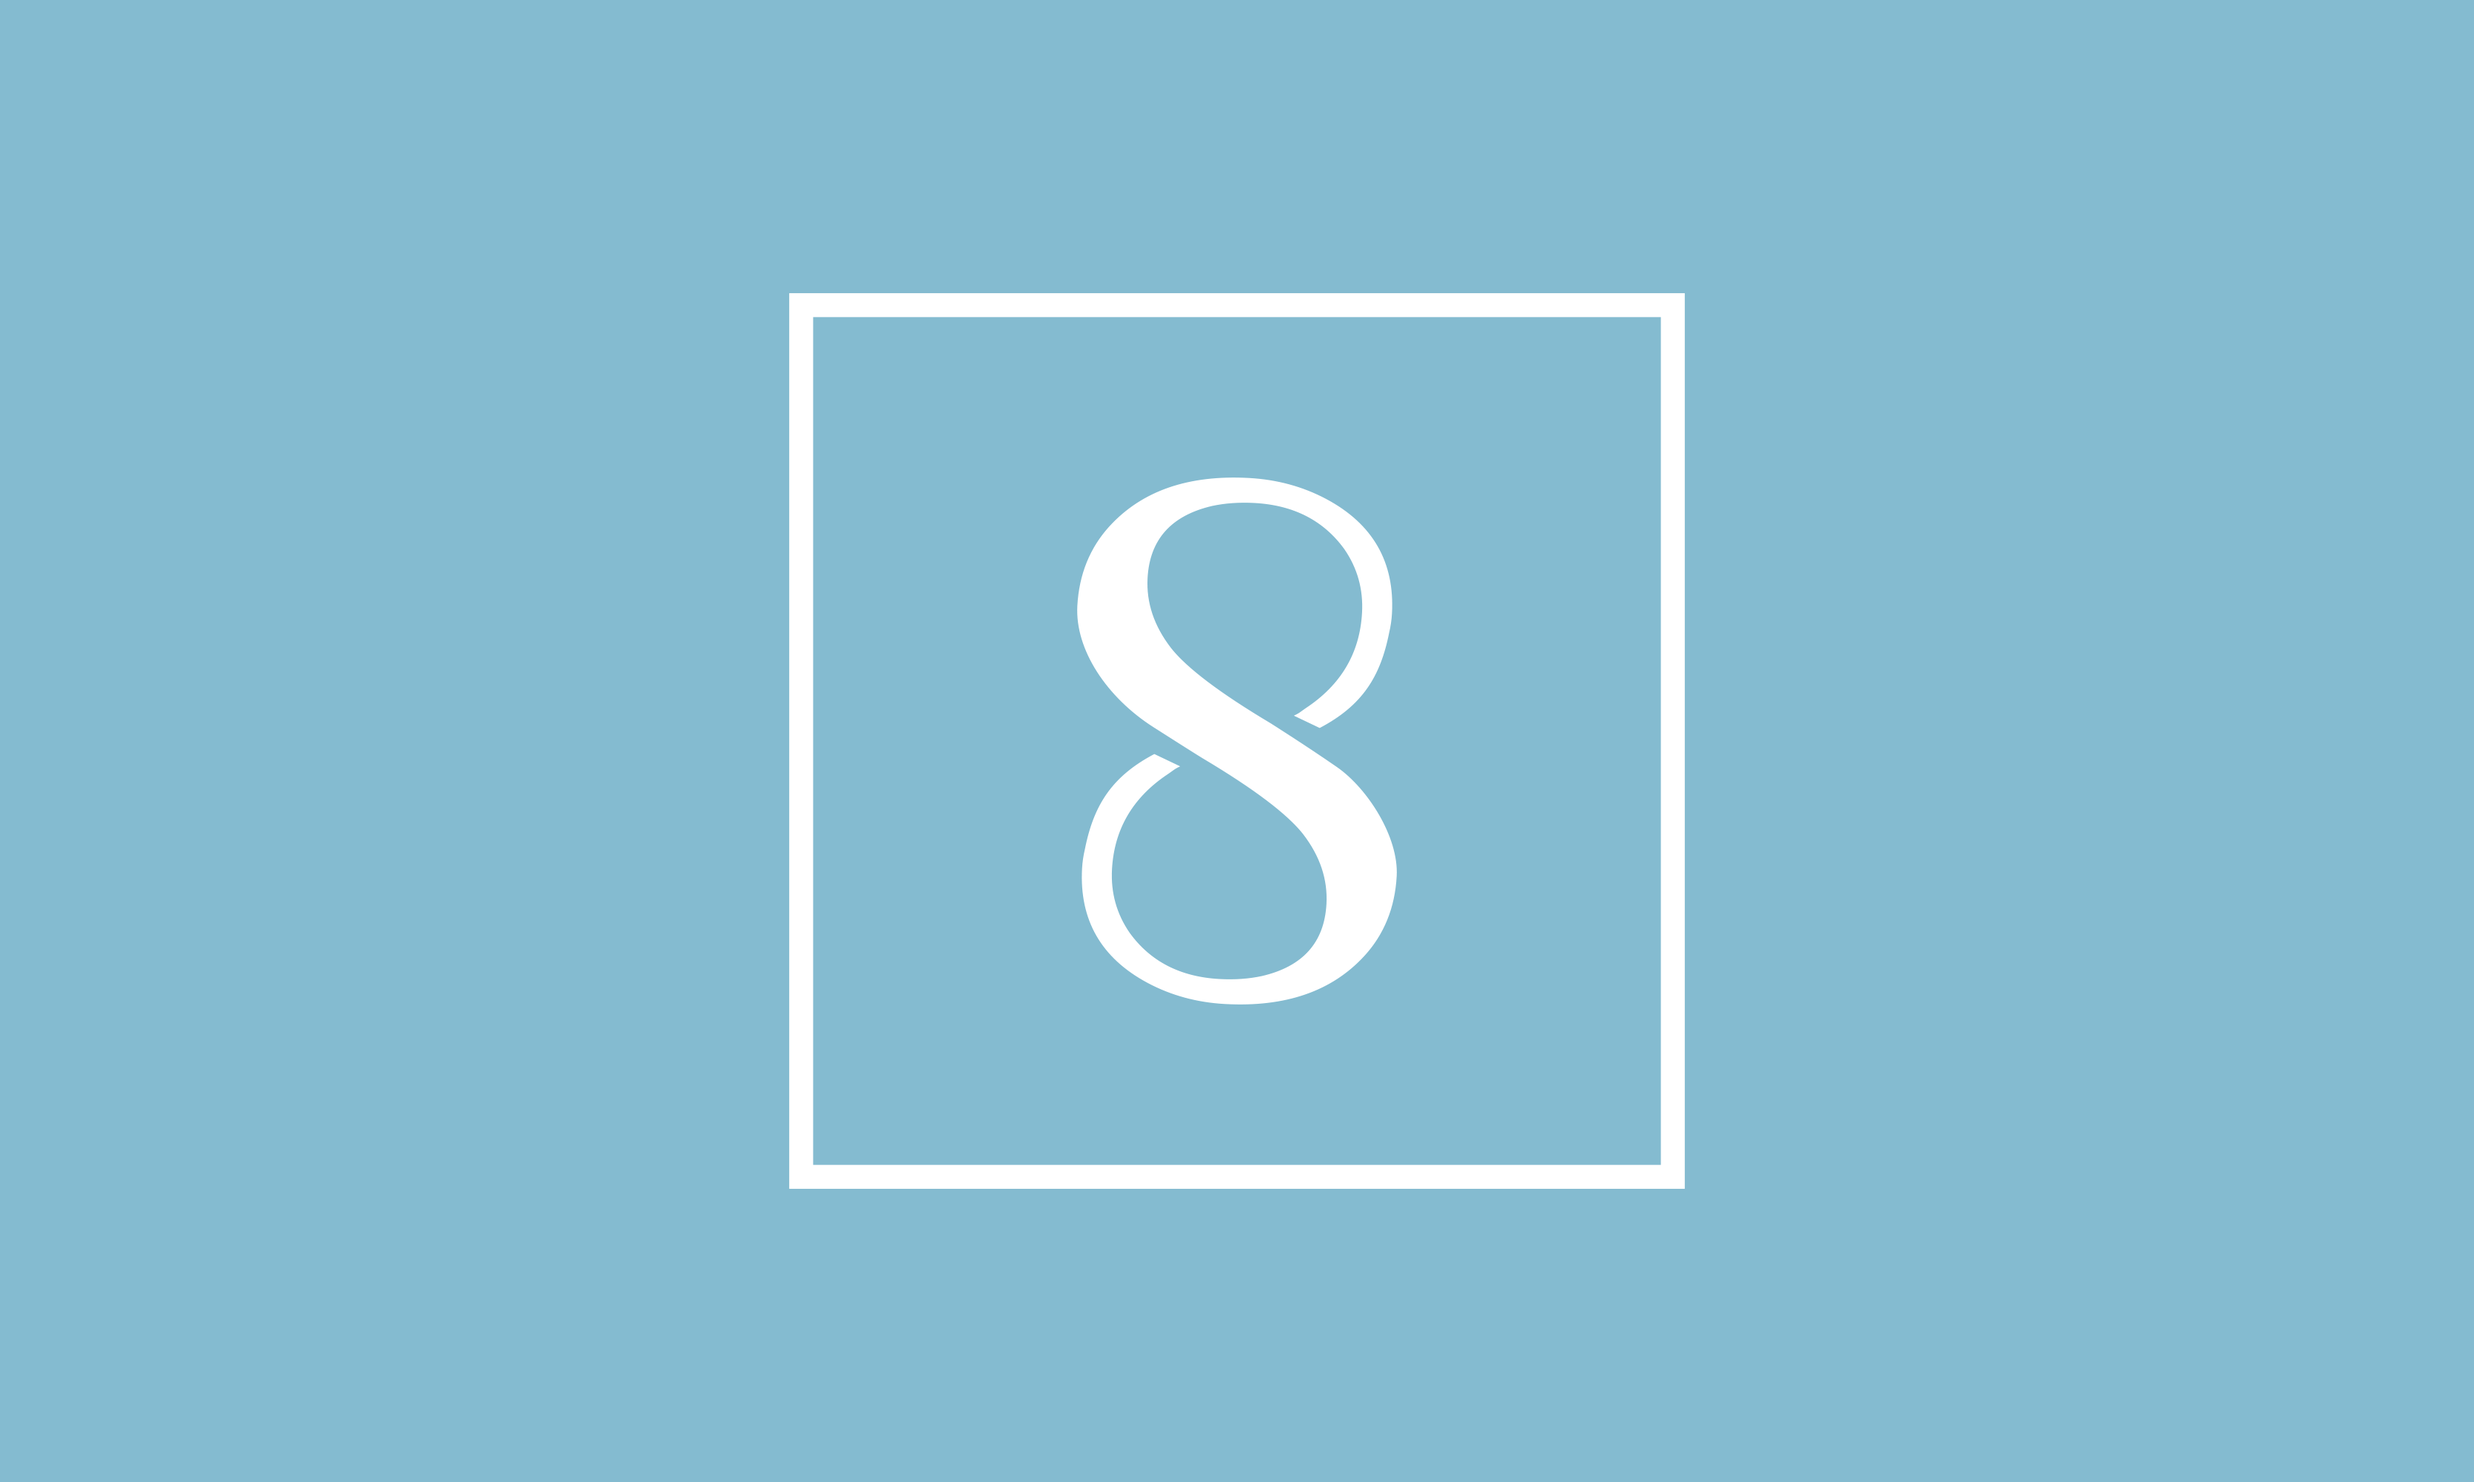
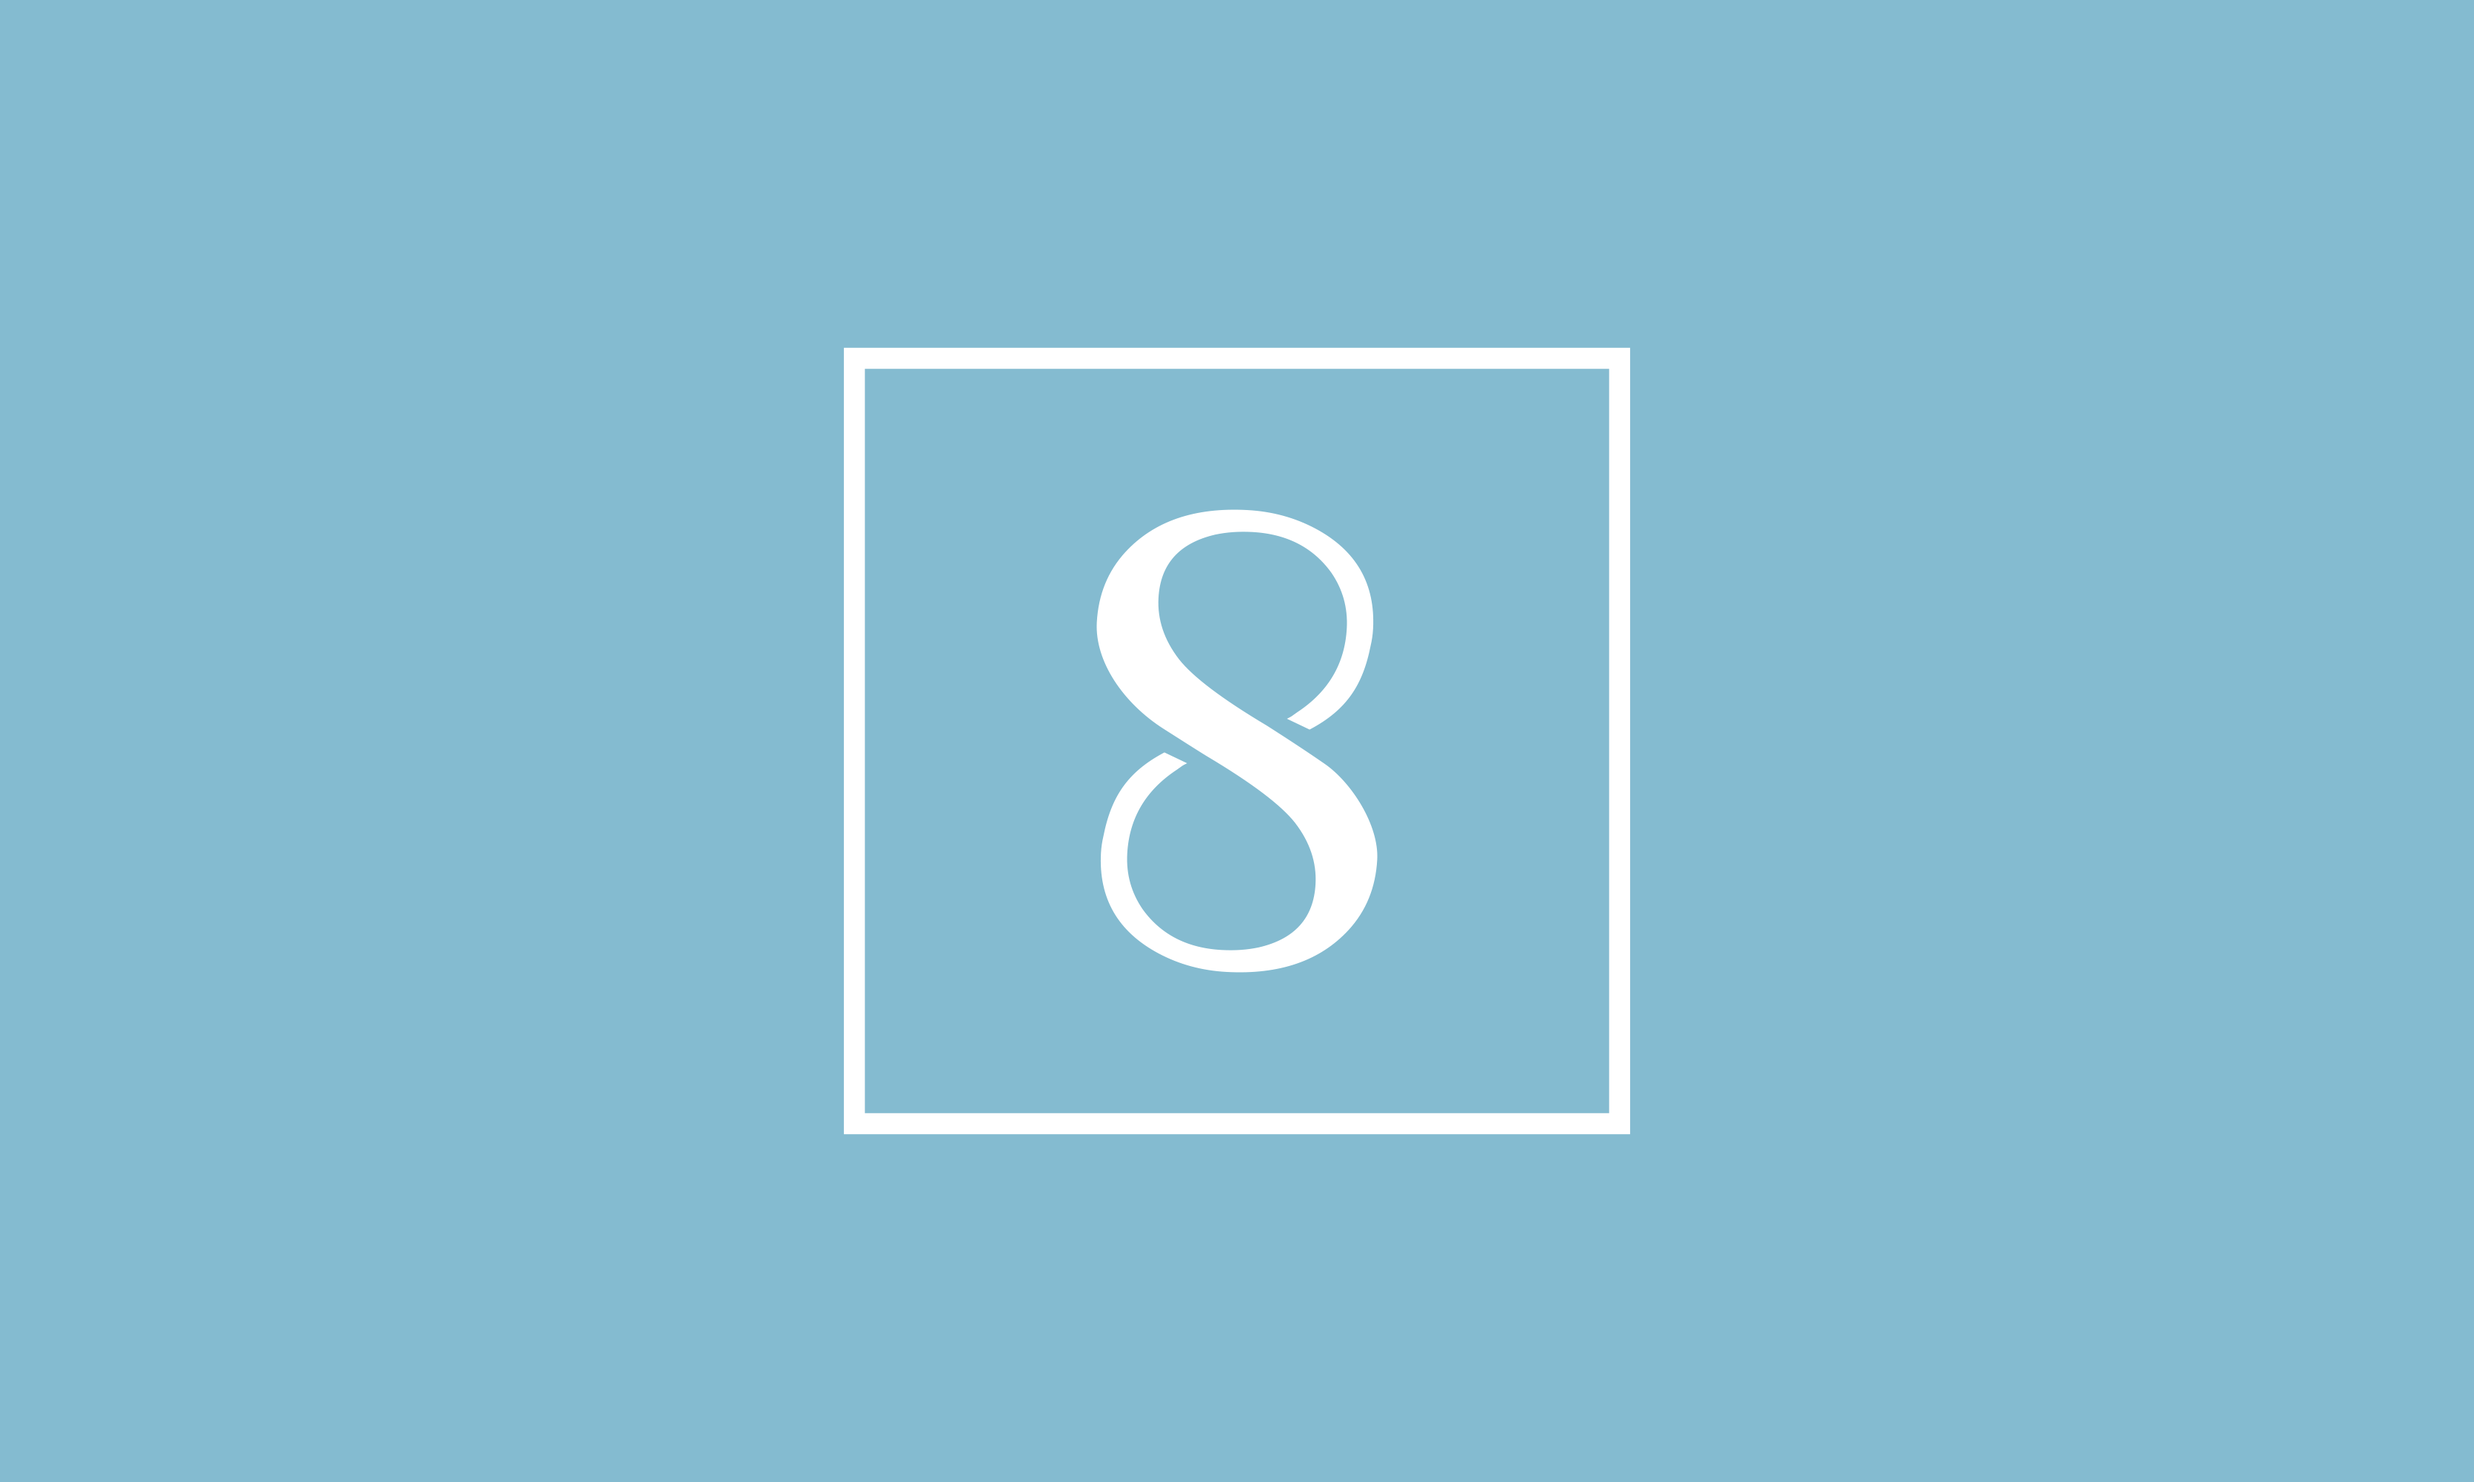
updated covers

diff --git a/src/pages/index.js b/src/pages/index.js
@@ -6,21 +6,12 @@ import Layout from '../components/Layout'
 import ProjectLink from '../components/ProjectLink'
 import styles from './styles.module.scss'
 
-import airRavenLogo from '../assets/projects/airraven/logo.jpg'
-import brewBrosLogo from '../assets/projects/brewbros/logo.jpg'
-import eightLogo from '../assets/projects/eight/eightSign.jpg'
-import tlabWebsite from '../assets/projects/tlab/websiteOne.png'
-import racketSpread from '../assets/projects/racket/spreadOne.jpg'
-import campaignPostcard from '../assets/projects/campaign/postcardSideOne.jpg'
-
-import airRavenCover from '../assets/projects/airraven/cover.jpg'
-import eightCover from '../assets/projects/eight/cover.jpg'
-import brewBrosCover from '../assets/projects/brewbros/cover.jpg'
-import campaignCover from '../assets/projects/campaign/cover.jpg'
-import tlabCover from '../assets/projects/tlab/cover.jpg'
-
-
-
+import airRavenCover from '../assets/projects/airraven/cover.png'
+import eightCover from '../assets/projects/eight/cover.png'
+import brewBrosCover from '../assets/projects/brewbros/cover.png'
+import campaignCover from '../assets/projects/campaign/cover.png'
+import tlabCover from '../assets/projects/tlab/cover.png'
+import racketCover from '../assets/projects/racket/cover.png'
 
 const HomePage = ({data}) => {
   return (
@@ -48,7 +39,7 @@ const HomePage = ({data}) => {
           title='Racket'
           link='/racket'
           description='Cover and article for first issue of a new music magazine.'
-          image={racketSpread}
+          image={racketCover}
         />
         <ProjectLink
           title='Brew Bros'

diff --git a/src/pages/racket.js b/src/pages/racket.js
@@ -9,9 +9,10 @@ import HalfWidthBanner from '../components/HalfWidthBanner'
 
 import processOne from '../assets/projects/racket/processOne.jpg'
 import processTwo from '../assets/projects/racket/processTwo.jpg'
-import cover from '../assets/projects/racket/cover.jpg'
+import coverSpread from '../assets/projects/racket/coverSpread.jpg'
 import spreadOne from '../assets/projects/racket/spreadOne.jpg'
-import spreadTwo from '../assets/projects/racket/spreadTwo.jpg'
+import spreadTwo from '../assets/projects/racket/spreadTwo.png'
+import spreadThree from '../assets/projects/racket/spreadThree.png'
 
 import styles from './styles.module.scss'
 
@@ -26,9 +27,12 @@ const RacketPage = ({data}) => (
       <img className={styles.halfWidthBanner} src={processOne} alt='collaging for racket magazine'></img>
       <img className={styles.halfWidthBanner} src={processTwo} alt='collaging for racket magazine'></img>
     </HalfWidthBanner>
-    <FullWidthBanner source={cover}></FullWidthBanner>
-    <FullWidthBanner source={spreadOne}></FullWidthBanner>
-    <FullWidthBanner source={spreadTwo}></FullWidthBanner>
+    <FullWidthBanner source={coverSpread} altText='Magazine cover'></FullWidthBanner>
+    <FullWidthBanner source={spreadOne} altText='Magazine spread one'></FullWidthBanner>
+    <HalfWidthBanner>
+      <img className={styles.halfWidthBanner} src={spreadTwo} alt='Magazine spread two'></img>
+      <img className={styles.halfWidthBanner} src={spreadThree} alt='Magazine spread three'></img>
+    </HalfWidthBanner>
   </Layout>
 )
 

diff --git a/src/pages/styles.module.scss b/src/pages/styles.module.scss
@@ -64,6 +64,7 @@ p {
 
 .halfWidthBanner {
   width: 100%;
+  margin-bottom: 50px;
 }
 
 .threeQuarterWidthBanner {
